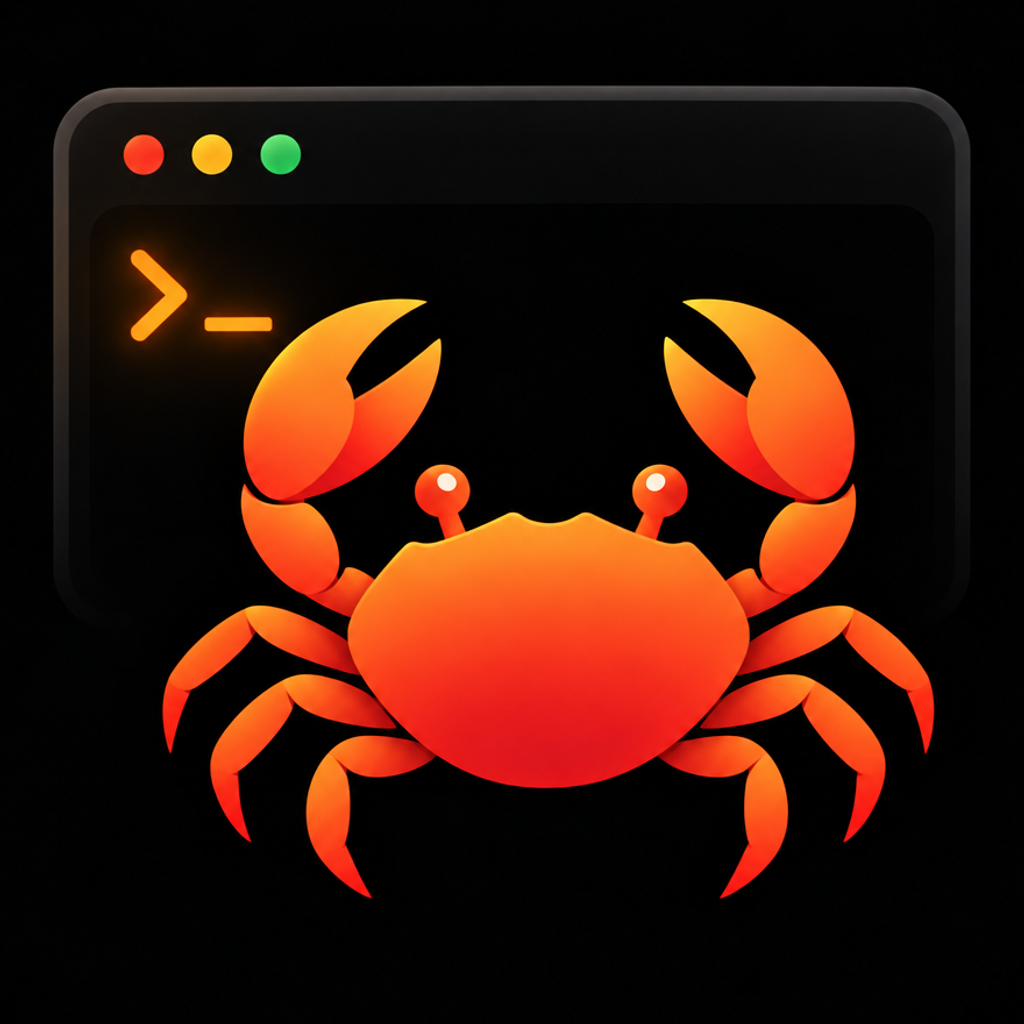
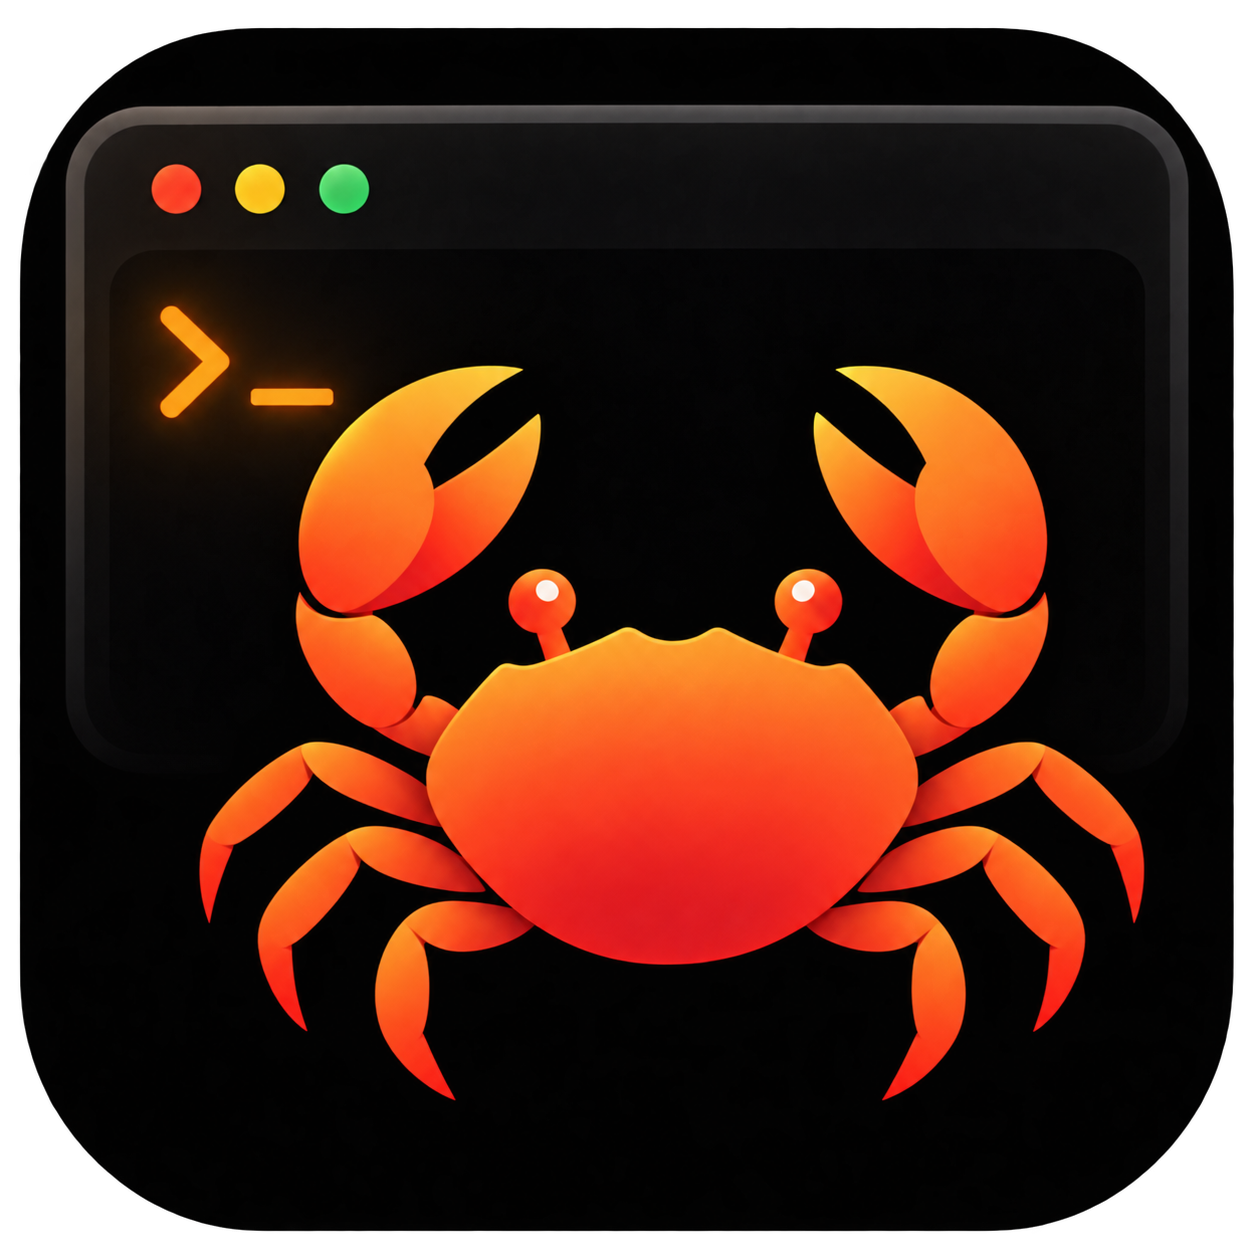
fix: 接通签名自动更新并统一圆角应用图标

Changed region(s): [[0.0, 0.0, 1.0, 1.0]]

diff --git a/CHANGELOG.md b/CHANGELOG.md
@@ -1,5 +1,10 @@
 # Changelog
 
+## 0.0.2
+
+- 接通 PaneNest 自有 GitHub Releases 自动更新源，支持校验签名后下载和安装更新。
+- 发布流程包含各平台的签名更新包、更新清单与可选增量包。
+
 ## 2.1.27
 
 - Paper is the theme a window starts with, and `theme` names Kero's
